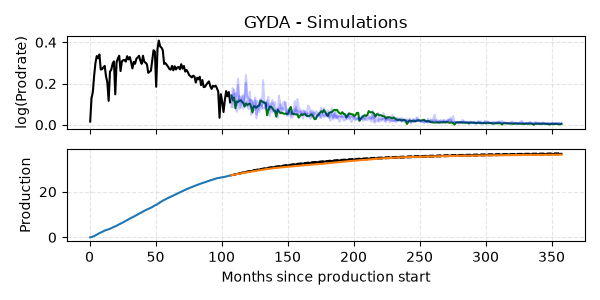
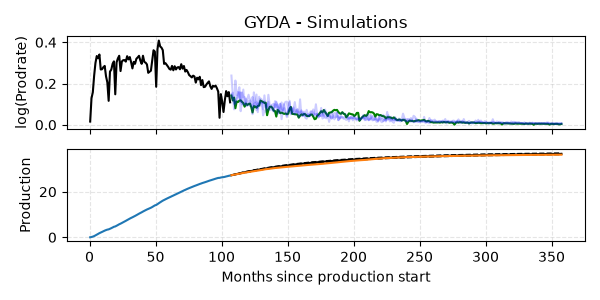
Update GitHub Pages

Changed region(s): [[0.36, 0.24, 0.9, 0.42]]

diff --git a/sg_execution_times.html b/sg_execution_times.html
@@ -80,7 +80,7 @@
              
   <section id="computation-times">
 <span id="sphx-glr-sg-execution-times"></span><h1>Computation times<a class="headerlink" href="#computation-times" title="Link to this heading"></a></h1>
-<p><strong>00:07.235</strong> total execution time for 11 files <strong>from all galleries</strong>:</p>
+<p><strong>00:07.366</strong> total execution time for 11 files <strong>from all galleries</strong>:</p>
 <div class="docutils container">
 <style scoped>
 <link href="https://cdnjs.cloudflare.com/ajax/libs/twitter-bootstrap/5.3.0/css/bootstrap.min.css" rel="stylesheet" />
@@ -102,39 +102,39 @@ $(document).ready( function () {
 </thead>
 <tbody>
 <tr class="row-even"><td><p><a class="reference internal" href="examples_gallery/plot_well_plotting.html#sphx-glr-examples-gallery-plot-well-plotting-py"><span class="std std-ref">Well plotting methods</span></a> (<code class="docutils literal notranslate"><span class="pre">../examples/plot_well_plotting.py</span></code>)</p></td>
-<td><p>00:01.768</p></td>
+<td><p>00:01.777</p></td>
 <td><p>0.0</p></td>
 </tr>
 <tr class="row-odd"><td><p><a class="reference internal" href="examples_gallery/plot_prior_effect.html#sphx-glr-examples-gallery-plot-prior-effect-py"><span class="std std-ref">Effect of prior</span></a> (<code class="docutils literal notranslate"><span class="pre">../examples/plot_prior_effect.py</span></code>)</p></td>
-<td><p>00:01.541</p></td>
+<td><p>00:01.564</p></td>
 <td><p>0.0</p></td>
 </tr>
 <tr class="row-even"><td><p><a class="reference internal" href="examples_gallery/plot_models_with_increasing_complexity.html#sphx-glr-examples-gallery-plot-models-with-increasing-complexity-py"><span class="std std-ref">Increasing model complexity</span></a> (<code class="docutils literal notranslate"><span class="pre">../examples/plot_models_with_increasing_complexity.py</span></code>)</p></td>
-<td><p>00:01.204</p></td>
-<td><p>0.0</p></td>
-</tr>
-<tr class="row-odd"><td><p><a class="reference internal" href="examples_gallery/plot_uncertainty.html#sphx-glr-examples-gallery-plot-uncertainty-py"><span class="std std-ref">Uncertainty</span></a> (<code class="docutils literal notranslate"><span class="pre">../examples/plot_uncertainty.py</span></code>)</p></td>
-<td><p>00:00.560</p></td>
-<td><p>0.0</p></td>
-</tr>
-<tr class="row-even"><td><p><a class="reference internal" href="examples_gallery/plot_future_simulations.html#sphx-glr-examples-gallery-plot-future-simulations-py"><span class="std std-ref">Future simulations</span></a> (<code class="docutils literal notranslate"><span class="pre">../examples/plot_future_simulations.py</span></code>)</p></td>
-<td><p>00:00.501</p></td>
+<td><p>00:01.227</p></td>
 <td><p>0.0</p></td>
 </tr>
 <tr class="row-odd"><td><p><a class="reference internal" href="examples_gallery/plot_arps.html#sphx-glr-examples-gallery-plot-arps-py"><span class="std std-ref">Plot an Arps curve</span></a> (<code class="docutils literal notranslate"><span class="pre">../examples/plot_arps.py</span></code>)</p></td>
-<td><p>00:00.489</p></td>
+<td><p>00:00.571</p></td>
+<td><p>0.0</p></td>
+</tr>
+<tr class="row-even"><td><p><a class="reference internal" href="examples_gallery/plot_uncertainty.html#sphx-glr-examples-gallery-plot-uncertainty-py"><span class="std std-ref">Uncertainty</span></a> (<code class="docutils literal notranslate"><span class="pre">../examples/plot_uncertainty.py</span></code>)</p></td>
+<td><p>00:00.560</p></td>
+<td><p>0.0</p></td>
+</tr>
+<tr class="row-odd"><td><p><a class="reference internal" href="examples_gallery/plot_future_simulations.html#sphx-glr-examples-gallery-plot-future-simulations-py"><span class="std std-ref">Future simulations</span></a> (<code class="docutils literal notranslate"><span class="pre">../examples/plot_future_simulations.py</span></code>)</p></td>
+<td><p>00:00.508</p></td>
 <td><p>0.0</p></td>
 </tr>
 <tr class="row-even"><td><p><a class="reference internal" href="examples_gallery/plot_simulation_game.html#sphx-glr-examples-gallery-plot-simulation-game-py"><span class="std std-ref">Simulation game</span></a> (<code class="docutils literal notranslate"><span class="pre">../examples/plot_simulation_game.py</span></code>)</p></td>
-<td><p>00:00.454</p></td>
+<td><p>00:00.447</p></td>
 <td><p>0.0</p></td>
 </tr>
 <tr class="row-odd"><td><p><a class="reference internal" href="examples_gallery/plot_data_cleaning.html#sphx-glr-examples-gallery-plot-data-cleaning-py"><span class="std std-ref">Data cleaning</span></a> (<code class="docutils literal notranslate"><span class="pre">../examples/plot_data_cleaning.py</span></code>)</p></td>
-<td><p>00:00.319</p></td>
+<td><p>00:00.312</p></td>
 <td><p>0.0</p></td>
 </tr>
 <tr class="row-even"><td><p><a class="reference internal" href="examples_gallery/plot_arps_methods.html#sphx-glr-examples-gallery-plot-arps-methods-py"><span class="std std-ref">Curve methods</span></a> (<code class="docutils literal notranslate"><span class="pre">../examples/plot_arps_methods.py</span></code>)</p></td>
-<td><p>00:00.164</p></td>
+<td><p>00:00.166</p></td>
 <td><p>0.0</p></td>
 </tr>
 <tr class="row-odd"><td><p><a class="reference internal" href="examples_gallery/plot_loss_function_params.html#sphx-glr-examples-gallery-plot-loss-function-params-py"><span class="std std-ref">Loss function parameters</span></a> (<code class="docutils literal notranslate"><span class="pre">../examples/plot_loss_function_params.py</span></code>)</p></td>
@@ -142,7 +142,7 @@ $(document).ready( function () {
 <td><p>0.0</p></td>
 </tr>
 <tr class="row-even"><td><p><a class="reference internal" href="examples_gallery/plot_arps_fit.html#sphx-glr-examples-gallery-plot-arps-fit-py"><span class="std std-ref">Fit an Arps curve</span></a> (<code class="docutils literal notranslate"><span class="pre">../examples/plot_arps_fit.py</span></code>)</p></td>
-<td><p>00:00.103</p></td>
+<td><p>00:00.102</p></td>
 <td><p>0.0</p></td>
 </tr>
 </tbody>

diff --git a/examples_gallery/sg_execution_times.html b/examples_gallery/sg_execution_times.html
@@ -80,7 +80,7 @@
              
   <section id="computation-times">
 <span id="sphx-glr-examples-gallery-sg-execution-times"></span><h1>Computation times<a class="headerlink" href="#computation-times" title="Link to this heading"></a></h1>
-<p><strong>00:07.235</strong> total execution time for 11 files <strong>from examples_gallery</strong>:</p>
+<p><strong>00:07.366</strong> total execution time for 11 files <strong>from examples_gallery</strong>:</p>
 <div class="docutils container">
 <style scoped>
 <link href="https://cdnjs.cloudflare.com/ajax/libs/twitter-bootstrap/5.3.0/css/bootstrap.min.css" rel="stylesheet" />
@@ -102,39 +102,39 @@ $(document).ready( function () {
 </thead>
 <tbody>
 <tr class="row-even"><td><p><a class="reference internal" href="plot_well_plotting.html#sphx-glr-examples-gallery-plot-well-plotting-py"><span class="std std-ref">Well plotting methods</span></a> (<code class="docutils literal notranslate"><span class="pre">plot_well_plotting.py</span></code>)</p></td>
-<td><p>00:01.768</p></td>
+<td><p>00:01.777</p></td>
 <td><p>0.0</p></td>
 </tr>
 <tr class="row-odd"><td><p><a class="reference internal" href="plot_prior_effect.html#sphx-glr-examples-gallery-plot-prior-effect-py"><span class="std std-ref">Effect of prior</span></a> (<code class="docutils literal notranslate"><span class="pre">plot_prior_effect.py</span></code>)</p></td>
-<td><p>00:01.541</p></td>
+<td><p>00:01.564</p></td>
 <td><p>0.0</p></td>
 </tr>
 <tr class="row-even"><td><p><a class="reference internal" href="plot_models_with_increasing_complexity.html#sphx-glr-examples-gallery-plot-models-with-increasing-complexity-py"><span class="std std-ref">Increasing model complexity</span></a> (<code class="docutils literal notranslate"><span class="pre">plot_models_with_increasing_complexity.py</span></code>)</p></td>
-<td><p>00:01.204</p></td>
-<td><p>0.0</p></td>
-</tr>
-<tr class="row-odd"><td><p><a class="reference internal" href="plot_uncertainty.html#sphx-glr-examples-gallery-plot-uncertainty-py"><span class="std std-ref">Uncertainty</span></a> (<code class="docutils literal notranslate"><span class="pre">plot_uncertainty.py</span></code>)</p></td>
-<td><p>00:00.560</p></td>
-<td><p>0.0</p></td>
-</tr>
-<tr class="row-even"><td><p><a class="reference internal" href="plot_future_simulations.html#sphx-glr-examples-gallery-plot-future-simulations-py"><span class="std std-ref">Future simulations</span></a> (<code class="docutils literal notranslate"><span class="pre">plot_future_simulations.py</span></code>)</p></td>
-<td><p>00:00.501</p></td>
+<td><p>00:01.227</p></td>
 <td><p>0.0</p></td>
 </tr>
 <tr class="row-odd"><td><p><a class="reference internal" href="plot_arps.html#sphx-glr-examples-gallery-plot-arps-py"><span class="std std-ref">Plot an Arps curve</span></a> (<code class="docutils literal notranslate"><span class="pre">plot_arps.py</span></code>)</p></td>
-<td><p>00:00.489</p></td>
+<td><p>00:00.571</p></td>
+<td><p>0.0</p></td>
+</tr>
+<tr class="row-even"><td><p><a class="reference internal" href="plot_uncertainty.html#sphx-glr-examples-gallery-plot-uncertainty-py"><span class="std std-ref">Uncertainty</span></a> (<code class="docutils literal notranslate"><span class="pre">plot_uncertainty.py</span></code>)</p></td>
+<td><p>00:00.560</p></td>
+<td><p>0.0</p></td>
+</tr>
+<tr class="row-odd"><td><p><a class="reference internal" href="plot_future_simulations.html#sphx-glr-examples-gallery-plot-future-simulations-py"><span class="std std-ref">Future simulations</span></a> (<code class="docutils literal notranslate"><span class="pre">plot_future_simulations.py</span></code>)</p></td>
+<td><p>00:00.508</p></td>
 <td><p>0.0</p></td>
 </tr>
 <tr class="row-even"><td><p><a class="reference internal" href="plot_simulation_game.html#sphx-glr-examples-gallery-plot-simulation-game-py"><span class="std std-ref">Simulation game</span></a> (<code class="docutils literal notranslate"><span class="pre">plot_simulation_game.py</span></code>)</p></td>
-<td><p>00:00.454</p></td>
+<td><p>00:00.447</p></td>
 <td><p>0.0</p></td>
 </tr>
 <tr class="row-odd"><td><p><a class="reference internal" href="plot_data_cleaning.html#sphx-glr-examples-gallery-plot-data-cleaning-py"><span class="std std-ref">Data cleaning</span></a> (<code class="docutils literal notranslate"><span class="pre">plot_data_cleaning.py</span></code>)</p></td>
-<td><p>00:00.319</p></td>
+<td><p>00:00.312</p></td>
 <td><p>0.0</p></td>
 </tr>
 <tr class="row-even"><td><p><a class="reference internal" href="plot_arps_methods.html#sphx-glr-examples-gallery-plot-arps-methods-py"><span class="std std-ref">Curve methods</span></a> (<code class="docutils literal notranslate"><span class="pre">plot_arps_methods.py</span></code>)</p></td>
-<td><p>00:00.164</p></td>
+<td><p>00:00.166</p></td>
 <td><p>0.0</p></td>
 </tr>
 <tr class="row-odd"><td><p><a class="reference internal" href="plot_loss_function_params.html#sphx-glr-examples-gallery-plot-loss-function-params-py"><span class="std std-ref">Loss function parameters</span></a> (<code class="docutils literal notranslate"><span class="pre">plot_loss_function_params.py</span></code>)</p></td>
@@ -142,7 +142,7 @@ $(document).ready( function () {
 <td><p>0.0</p></td>
 </tr>
 <tr class="row-even"><td><p><a class="reference internal" href="plot_arps_fit.html#sphx-glr-examples-gallery-plot-arps-fit-py"><span class="std std-ref">Fit an Arps curve</span></a> (<code class="docutils literal notranslate"><span class="pre">plot_arps_fit.py</span></code>)</p></td>
-<td><p>00:00.103</p></td>
+<td><p>00:00.102</p></td>
 <td><p>0.0</p></td>
 </tr>
 </tbody>

diff --git a/examples_gallery/plot_data_cleaning.html b/examples_gallery/plot_data_cleaning.html
@@ -191,7 +191,7 @@ to download the full example code.</p>
 </span><span class="n">fig</span><span class="o">.</span><span class="n">tight_layout</span><span class="p">(</span><span class="p">)</span>  <span class="c1"># otherwise the right y-label is slightly clipped</span><span class="w">
 </span><span class="n">plt</span><span class="o">.</span><span class="n">show</span><span class="p">(</span><span class="p">)</span><span class="w">
 </span></pre></div></div>
-<p class="sphx-glr-timing"><strong>Total running time of the script:</strong> (0 minutes 0.319 seconds)</p>
+<p class="sphx-glr-timing"><strong>Total running time of the script:</strong> (0 minutes 0.312 seconds)</p>
 <div class="sphx-glr-footer sphx-glr-footer-example docutils container" id="sphx-glr-download-examples-gallery-plot-data-cleaning-py">
 <div class="sphx-glr-download sphx-glr-download-jupyter docutils container">
 <p><a class="reference download internal" download="" href="../_downloads/a977809b77ec50815597c1a88c9ceec1/plot_data_cleaning.ipynb"><code class="xref download docutils literal notranslate"><span class="pre">Download</span> <span class="pre">Jupyter</span> <span class="pre">notebook:</span> <span class="pre">plot_data_cleaning.ipynb</span></code></a></p>

diff --git a/examples_gallery/plot_models_with_increasing_complexity.html b/examples_gallery/plot_models_with_increasing_complexity.html
@@ -232,7 +232,7 @@ to download the full example code.</p>
 </span><span class="n">fig</span><span class="o">.</span><span class="n">tight_layout</span><span class="p">(</span><span class="p">)</span><span class="w">
 </span><span class="n">plt</span><span class="o">.</span><span class="n">show</span><span class="p">(</span><span class="p">)</span><span class="w">
 </span></pre></div></div>
-<p class="sphx-glr-timing"><strong>Total running time of the script:</strong> (0 minutes 1.204 seconds)</p>
+<p class="sphx-glr-timing"><strong>Total running time of the script:</strong> (0 minutes 1.227 seconds)</p>
 <div class="sphx-glr-footer sphx-glr-footer-example docutils container" id="sphx-glr-download-examples-gallery-plot-models-with-increasing-complexity-py">
 <div class="sphx-glr-download sphx-glr-download-jupyter docutils container">
 <p><a class="reference download internal" download="" href="../_downloads/ce19ee6c766f2b1a3fae8ef27431201c/plot_models_with_increasing_complexity.ipynb"><code class="xref download docutils literal notranslate"><span class="pre">Download</span> <span class="pre">Jupyter</span> <span class="pre">notebook:</span> <span class="pre">plot_models_with_increasing_complexity.ipynb</span></code></a></p>

diff --git a/examples_gallery/plot_simulation_game.html b/examples_gallery/plot_simulation_game.html
@@ -204,7 +204,7 @@ Can you guess where the training data ends and the simulation begins?</p>
 </span><span class="n">fig</span><span class="o">.</span><span class="n">tight_layout</span><span class="p">(</span><span class="p">)</span><span class="w">
 </span><span class="n">plt</span><span class="o">.</span><span class="n">show</span><span class="p">(</span><span class="p">)</span><span class="w">
 </span></pre></div></div>
-<p class="sphx-glr-timing"><strong>Total running time of the script:</strong> (0 minutes 0.454 seconds)</p>
+<p class="sphx-glr-timing"><strong>Total running time of the script:</strong> (0 minutes 0.447 seconds)</p>
 <div class="sphx-glr-footer sphx-glr-footer-example docutils container" id="sphx-glr-download-examples-gallery-plot-simulation-game-py">
 <div class="sphx-glr-download sphx-glr-download-jupyter docutils container">
 <p><a class="reference download internal" download="" href="../_downloads/a6cf2229cddd1992b51dc1b39d21b5b6/plot_simulation_game.ipynb"><code class="xref download docutils literal notranslate"><span class="pre">Download</span> <span class="pre">Jupyter</span> <span class="pre">notebook:</span> <span class="pre">plot_simulation_game.ipynb</span></code></a></p>

diff --git a/examples_gallery/plot_future_simulations.html b/examples_gallery/plot_future_simulations.html
@@ -219,7 +219,7 @@ to download the full example code.</p>
 </span><span class="n">fig</span><span class="o">.</span><span class="n">tight_layout</span><span class="p">(</span><span class="p">)</span><span class="w">
 </span><span class="n">plt</span><span class="o">.</span><span class="n">show</span><span class="p">(</span><span class="p">)</span><span class="w">
 </span></pre></div></div>
-<p class="sphx-glr-timing"><strong>Total running time of the script:</strong> (0 minutes 0.501 seconds)</p>
+<p class="sphx-glr-timing"><strong>Total running time of the script:</strong> (0 minutes 0.508 seconds)</p>
 <div class="sphx-glr-footer sphx-glr-footer-example docutils container" id="sphx-glr-download-examples-gallery-plot-future-simulations-py">
 <div class="sphx-glr-download sphx-glr-download-jupyter docutils container">
 <p><a class="reference download internal" download="" href="../_downloads/22cacbe6f1d06058b56df26a2e10a268/plot_future_simulations.ipynb"><code class="xref download docutils literal notranslate"><span class="pre">Download</span> <span class="pre">Jupyter</span> <span class="pre">notebook:</span> <span class="pre">plot_future_simulations.ipynb</span></code></a></p>

diff --git a/examples_gallery/plot_well_plotting.html b/examples_gallery/plot_well_plotting.html
@@ -166,7 +166,7 @@ to download the full example code.</p>
 </span><span class="n">fig</span><span class="o">.</span><span class="n">tight_layout</span><span class="p">(</span><span class="p">)</span><span class="w">
 </span><span class="n">plt</span><span class="o">.</span><span class="n">show</span><span class="p">(</span><span class="p">)</span><span class="w">
 </span></pre></div></div>
-<p class="sphx-glr-timing"><strong>Total running time of the script:</strong> (0 minutes 1.768 seconds)</p>
+<p class="sphx-glr-timing"><strong>Total running time of the script:</strong> (0 minutes 1.777 seconds)</p>
 <div class="sphx-glr-footer sphx-glr-footer-example docutils container" id="sphx-glr-download-examples-gallery-plot-well-plotting-py">
 <div class="sphx-glr-download sphx-glr-download-jupyter docutils container">
 <p><a class="reference download internal" download="" href="../_downloads/6c18a0ed7cfbb598f1eb955370dd4669/plot_well_plotting.ipynb"><code class="xref download docutils literal notranslate"><span class="pre">Download</span> <span class="pre">Jupyter</span> <span class="pre">notebook:</span> <span class="pre">plot_well_plotting.ipynb</span></code></a></p>

diff --git a/examples_gallery/plot_prior_effect.html b/examples_gallery/plot_prior_effect.html
@@ -209,7 +209,7 @@ the prior lessens.</p>
 </span><span class="n">fig</span><span class="o">.</span><span class="n">tight_layout</span><span class="p">(</span><span class="p">)</span><span class="w">
 </span><span class="n">plt</span><span class="o">.</span><span class="n">show</span><span class="p">(</span><span class="p">)</span><span class="w">
 </span></pre></div></div>
-<p class="sphx-glr-timing"><strong>Total running time of the script:</strong> (0 minutes 1.541 seconds)</p>
+<p class="sphx-glr-timing"><strong>Total running time of the script:</strong> (0 minutes 1.564 seconds)</p>
 <div class="sphx-glr-footer sphx-glr-footer-example docutils container" id="sphx-glr-download-examples-gallery-plot-prior-effect-py">
 <div class="sphx-glr-download sphx-glr-download-jupyter docutils container">
 <p><a class="reference download internal" download="" href="../_downloads/73df2802b7b89b299e53b703f3a37ba6/plot_prior_effect.ipynb"><code class="xref download docutils literal notranslate"><span class="pre">Download</span> <span class="pre">Jupyter</span> <span class="pre">notebook:</span> <span class="pre">plot_prior_effect.ipynb</span></code></a></p>

diff --git a/examples_gallery/plot_arps_fit.html b/examples_gallery/plot_arps_fit.html
@@ -185,7 +185,7 @@ to download the full example code.</p>
 </span><span class="n">plt</span><span class="o">.</span><span class="n">legend</span><span class="p">(</span><span class="p">)</span><span class="w">
 </span><span class="n">plt</span><span class="o">.</span><span class="n">show</span><span class="p">(</span><span class="p">)</span><span class="w">
 </span></pre></div></div>
-<p class="sphx-glr-timing"><strong>Total running time of the script:</strong> (0 minutes 0.103 seconds)</p>
+<p class="sphx-glr-timing"><strong>Total running time of the script:</strong> (0 minutes 0.102 seconds)</p>
 <div class="sphx-glr-footer sphx-glr-footer-example docutils container" id="sphx-glr-download-examples-gallery-plot-arps-fit-py">
 <div class="sphx-glr-download sphx-glr-download-jupyter docutils container">
 <p><a class="reference download internal" download="" href="../_downloads/ddce2d4f4c3c0647a191c8b9fd0bced8/plot_arps_fit.ipynb"><code class="xref download docutils literal notranslate"><span class="pre">Download</span> <span class="pre">Jupyter</span> <span class="pre">notebook:</span> <span class="pre">plot_arps_fit.ipynb</span></code></a></p>

diff --git a/examples_gallery/plot_arps.html b/examples_gallery/plot_arps.html
@@ -146,7 +146,7 @@ to download the full example code.</p>
 </span><span class="n">plt</span><span class="o">.</span><span class="n">legend</span><span class="p">(</span><span class="p">)</span><span class="w">
 </span><span class="n">plt</span><span class="o">.</span><span class="n">show</span><span class="p">(</span><span class="p">)</span><span class="w">
 </span></pre></div></div>
-<p class="sphx-glr-timing"><strong>Total running time of the script:</strong> (0 minutes 0.489 seconds)</p>
+<p class="sphx-glr-timing"><strong>Total running time of the script:</strong> (0 minutes 0.571 seconds)</p>
 <div class="sphx-glr-footer sphx-glr-footer-example docutils container" id="sphx-glr-download-examples-gallery-plot-arps-py">
 <div class="sphx-glr-download sphx-glr-download-jupyter docutils container">
 <p><a class="reference download internal" download="" href="../_downloads/cf7905c17ce2b137a1fa0e9221636a26/plot_arps.ipynb"><code class="xref download docutils literal notranslate"><span class="pre">Download</span> <span class="pre">Jupyter</span> <span class="pre">notebook:</span> <span class="pre">plot_arps.ipynb</span></code></a></p>

diff --git a/examples_gallery/plot_arps_methods.html b/examples_gallery/plot_arps_methods.html
@@ -153,7 +153,7 @@ q_1=12.182 h=0.119 D=0.093
 </span><span class="w">
 </span><span class="n">plt</span><span class="o">.</span><span class="n">show</span><span class="p">(</span><span class="p">)</span><span class="w">
 </span></pre></div></div>
-<p class="sphx-glr-timing"><strong>Total running time of the script:</strong> (0 minutes 0.164 seconds)</p>
+<p class="sphx-glr-timing"><strong>Total running time of the script:</strong> (0 minutes 0.166 seconds)</p>
 <div class="sphx-glr-footer sphx-glr-footer-example docutils container" id="sphx-glr-download-examples-gallery-plot-arps-methods-py">
 <div class="sphx-glr-download sphx-glr-download-jupyter docutils container">
 <p><a class="reference download internal" download="" href="../_downloads/7bae11087720a46ff6e4cb4ffca7c6a6/plot_arps_methods.ipynb"><code class="xref download docutils literal notranslate"><span class="pre">Download</span> <span class="pre">Jupyter</span> <span class="pre">notebook:</span> <span class="pre">plot_arps_methods.ipynb</span></code></a></p>
